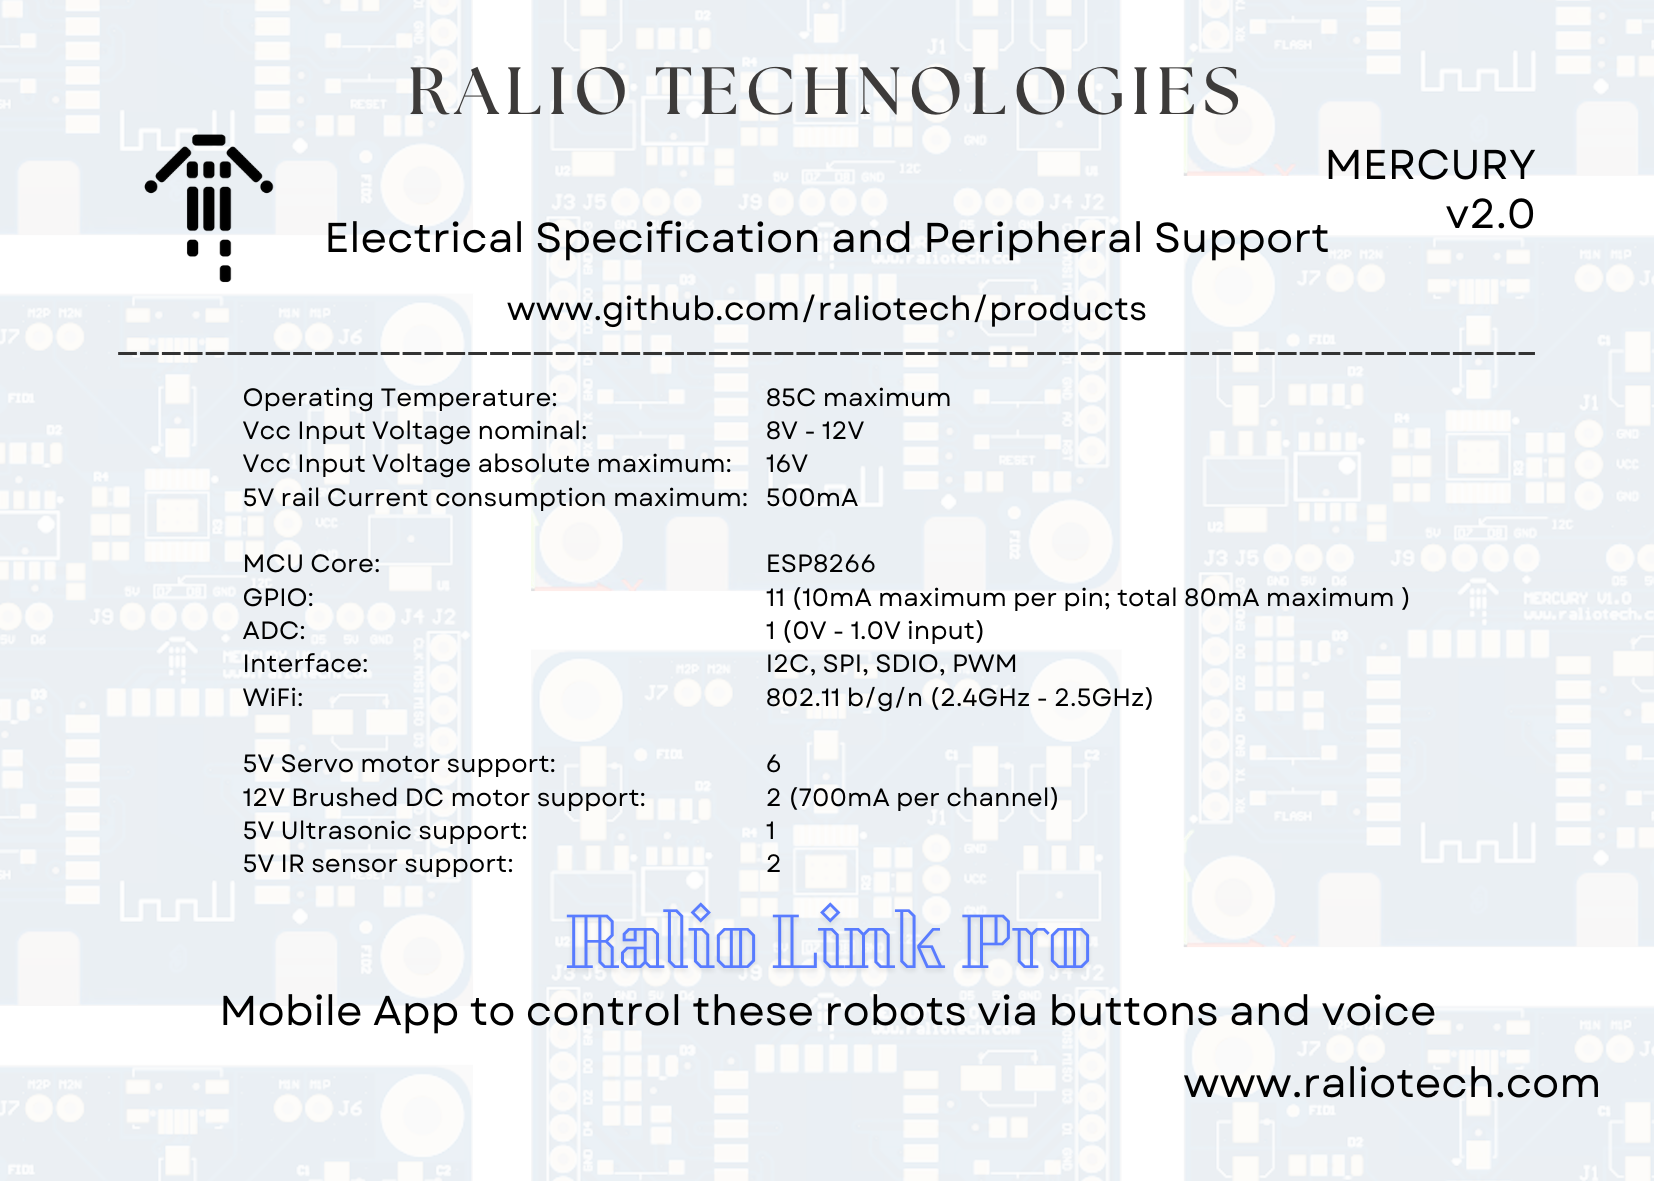
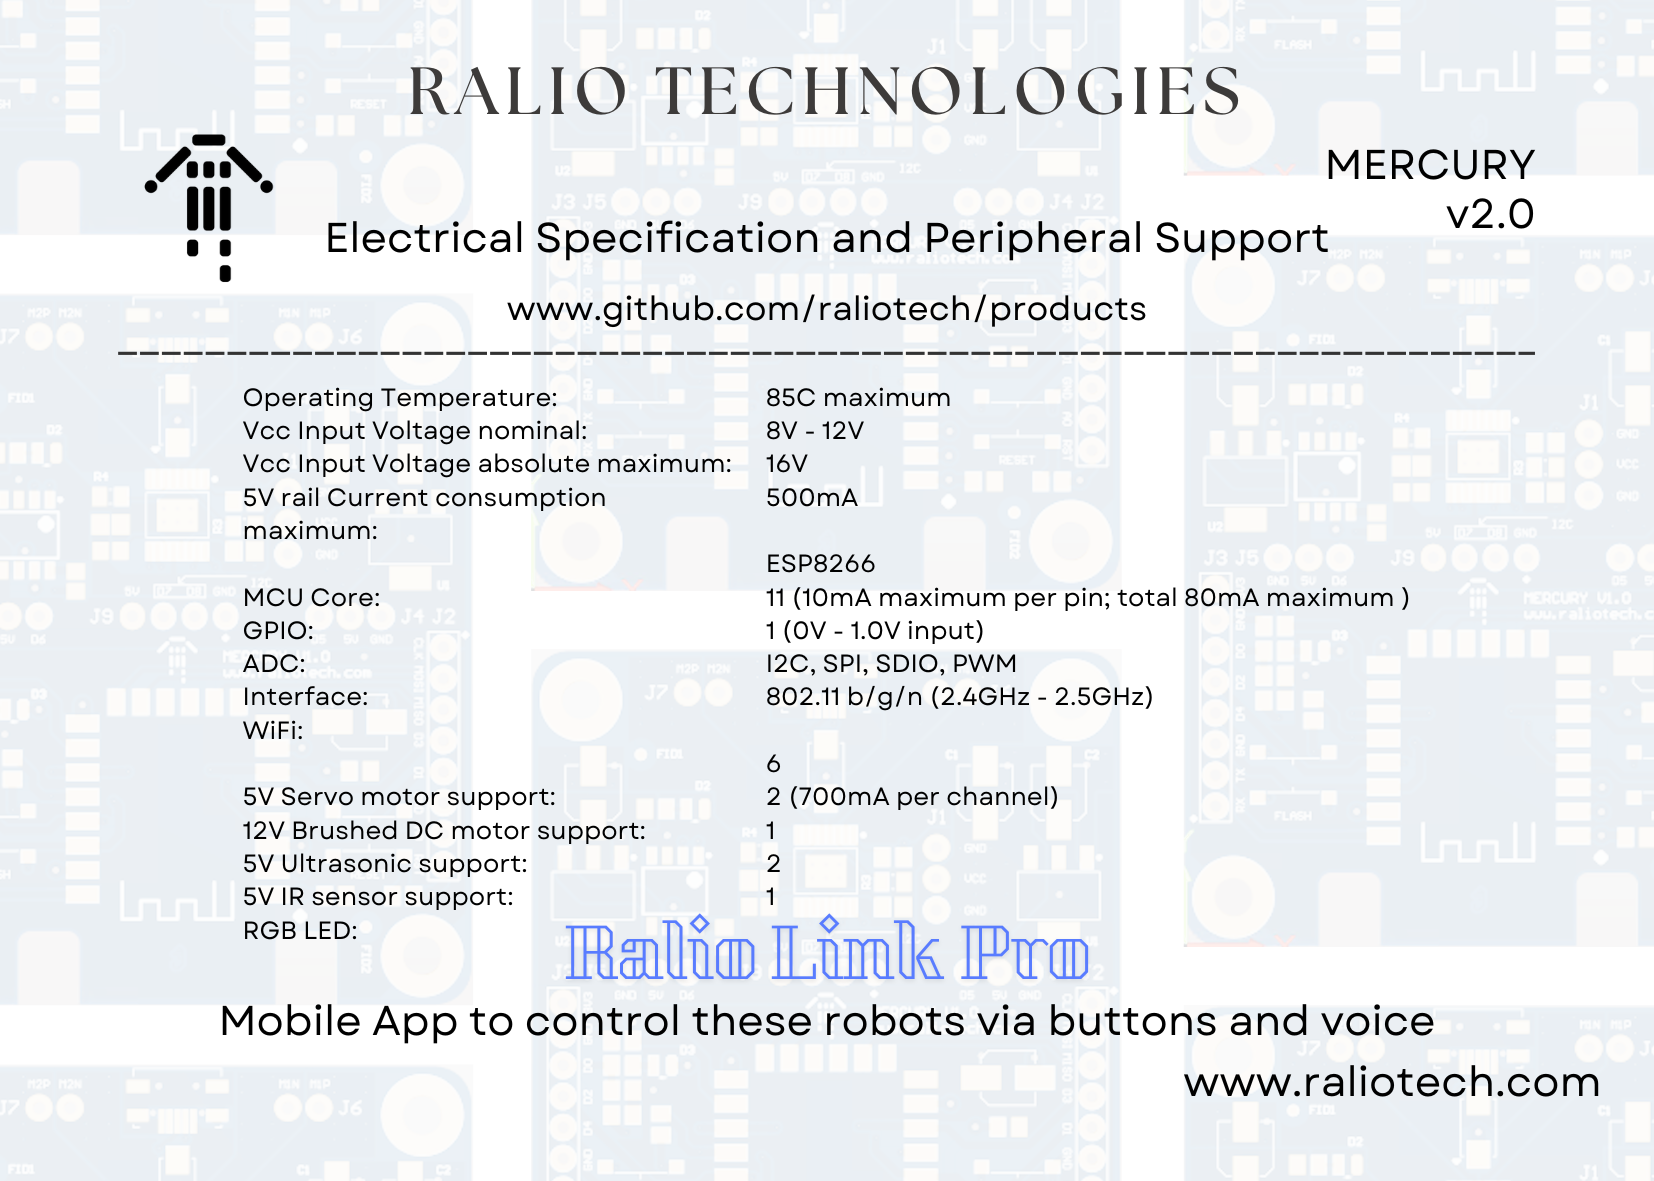
update readme; update coup card;u

diff --git a/README.md b/README.md
@@ -4,6 +4,9 @@ Ralio Products
 ## Boards
 
 ### Arduino® IDE Support for Mercury
+
+![mercury_v2.0](img/mercury_v2.0.png)
+
 Carefully follow the instruction on the [Board Installation](https://github.com/raliotech/products/tree/master/boards/mercury) page.
 
 For more information please refer to [Additional Documentation](https://github.com/raliotech/products/tree/master/core/board_manager/esp8266#readme) or email us at ```info@raliotech.com```.
